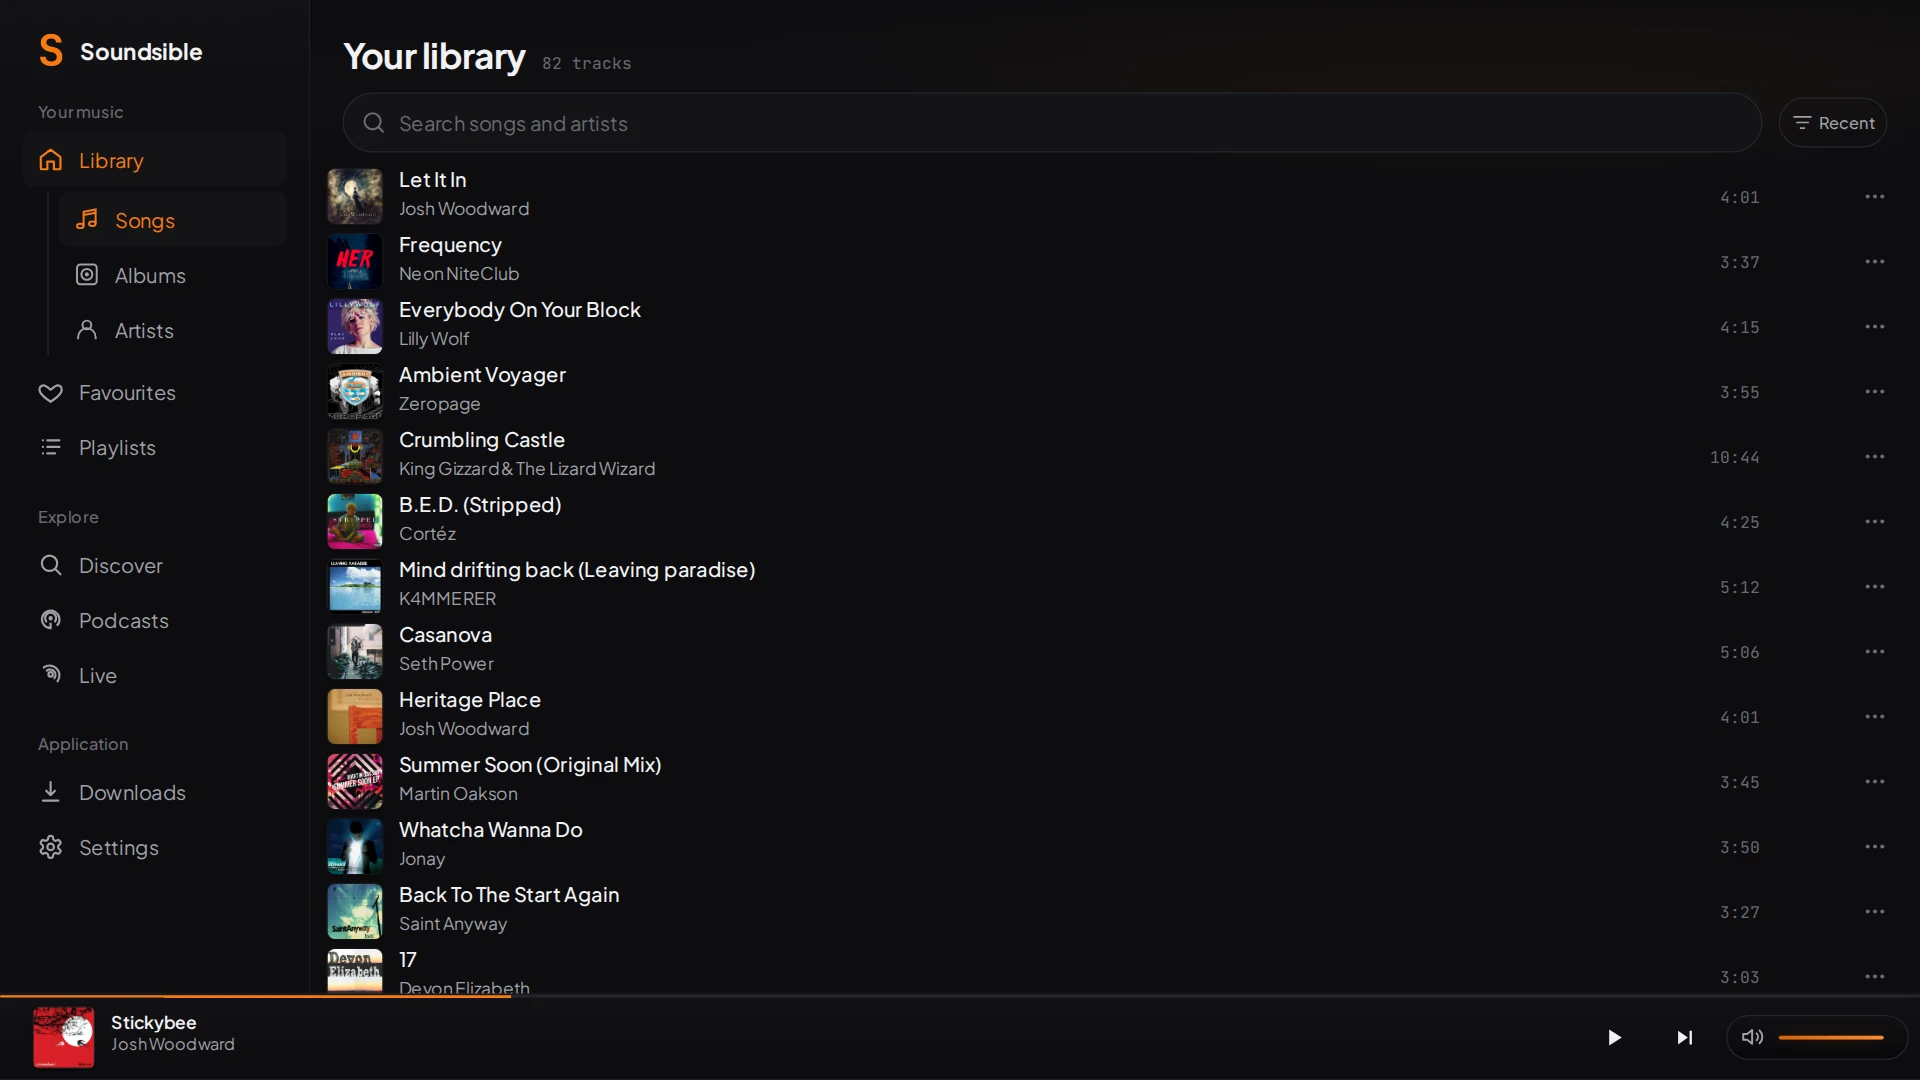
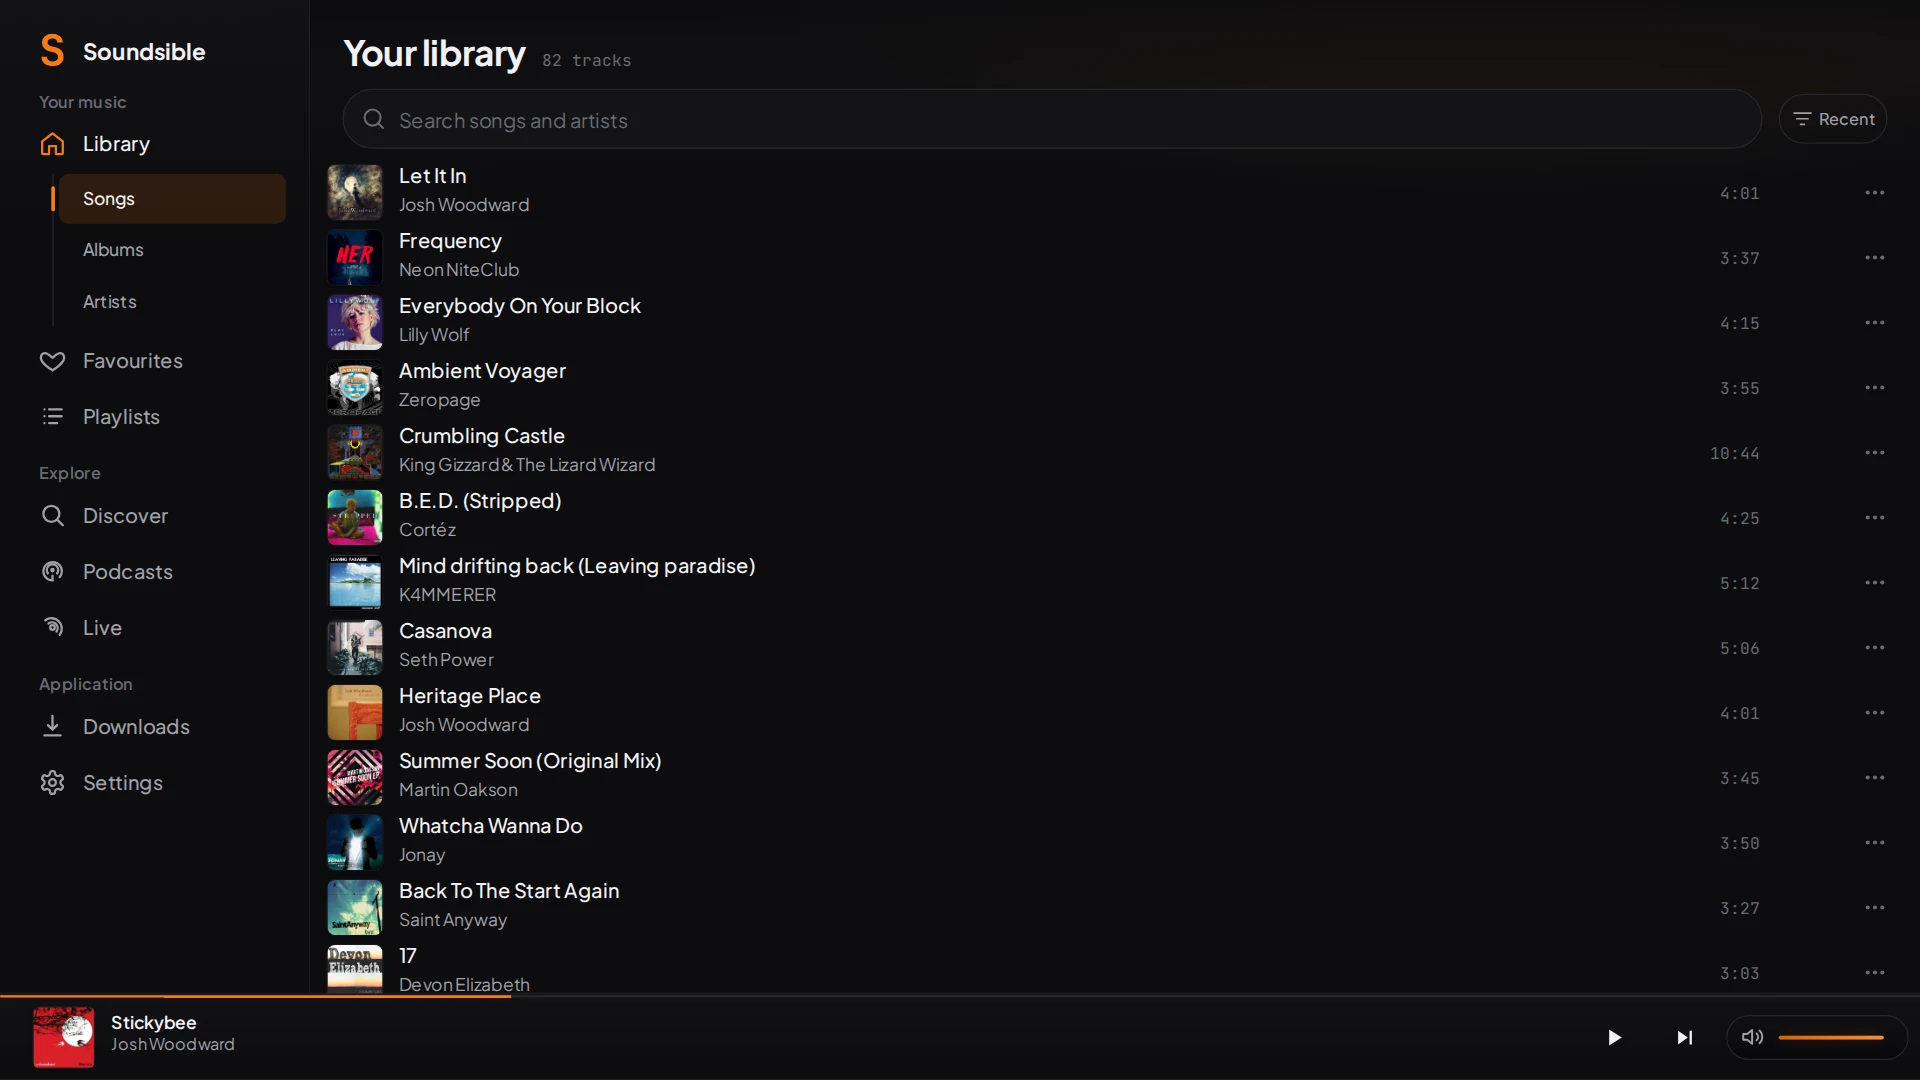
Refresh Soundsible screenshot for v0.32

diff --git a/index.html b/index.html
@@ -88,7 +88,7 @@
           <span class="project-arrow" aria-hidden="true">→</span>
         </a>
         <button class="screenshot-trigger" type="button" data-project="Soundsible" data-web="https://arzuparreta.github.io/soundsible.github.io/" aria-label="Ampliar captura de Soundsible" data-en-aria="Enlarge Soundsible screenshot">
-          <img class="project-screenshot" src="assets/projects/soundsible.webp" width="1920" height="1080" alt="Biblioteca de música de Soundsible" decoding="async">
+          <img class="project-screenshot" src="assets/projects/soundsible.webp?ref=c1a2f65" width="1920" height="1080" alt="Biblioteca de música de Soundsible" decoding="async">
           <span class="screenshot-hint" data-en="Enlarge ↗">Ampliar ↗</span>
         </button>
         <a class="project-repo" href="https://github.com/Arzuparreta/soundsible">Github</a>

diff --git a/assets/projects/README.md b/assets/projects/README.md
@@ -3,11 +3,12 @@
 Copias locales de recursos oficiales integrados. Revisión general: 2026-10-16.
 Captura de Fly Browser actualizada: 2026-11-03.
 Captura de Linux Theming actualizada: 2026-11-09.
+Captura de Soundsible actualizada: 2026-11-10.
 
 | Archivo local | Repositorio | Ruta de origen | Commit de origen | Dimensiones / uso |
 | --- | --- | --- | --- | --- |
 | `soundsible-icon.png` | [soundsible](https://github.com/Arzuparreta/soundsible) | `branding/logo-app.png` | `da09aa59b07417d04ea20f29f6113dc6aaed3ec6` | Icono |
-| `soundsible.webp` | [soundsible](https://github.com/Arzuparreta/soundsible) | `docs/images/screenshots/dark/desktop-library.webp` | `da09aa59b07417d04ea20f29f6113dc6aaed3ec6` | 1920 × 1080 |
+| `soundsible.webp` | [soundsible](https://github.com/Arzuparreta/soundsible) | `docs/images/screenshots/dark/desktop-library.webp` | `c1a2f65d56c0ca0f800eb3264cba0f207951ca95` | 1920 × 1080; revisado 2026-11-10; commit del PR 438 (pendiente de fusionar) |
 | `fly-icon.png` | [fly-browser](https://github.com/Arzuparreta/fly-browser) | `docs/public/logo.png` | `89a9f568ab365a0b2c9bd81fea70ae8985ad911a` | Icono |
 | `fly.webp` | [Landing de Fly](https://github.com/Arzuparreta/fly-browser.github.io) | `assets/screens/new-tab.webp` | `12714e670153dd6c58ee1ee95acaa2977364b28b` | 1440 × 900 |
 | `linux-theming-icon.png` | [linux-theming](https://github.com/Arzuparreta/linux-theming) | `assets/icon.png` | `f3724c9186d02ea518164fb05fee025548a2cf63` | 256 × 256; icono; revisado 2026-11-06 |
